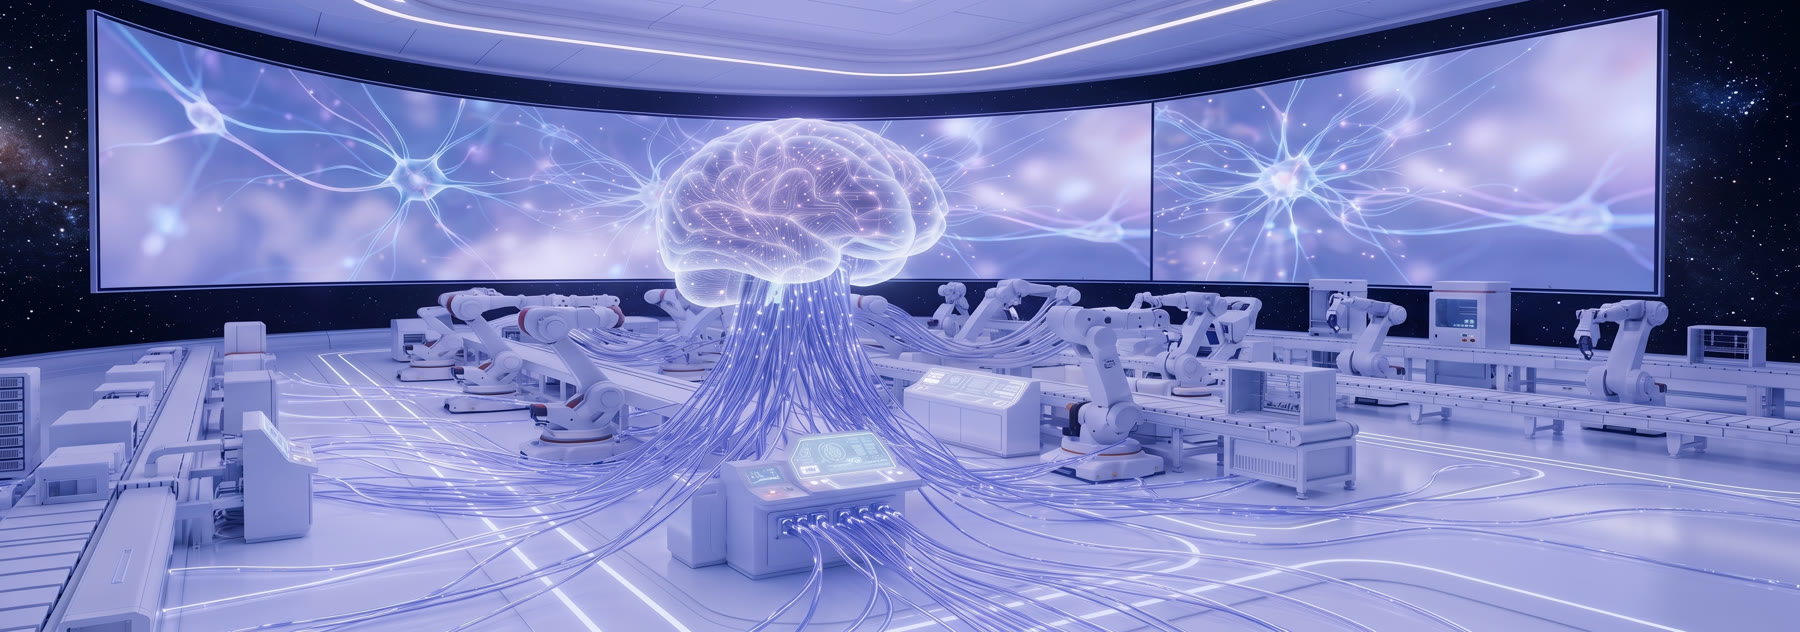
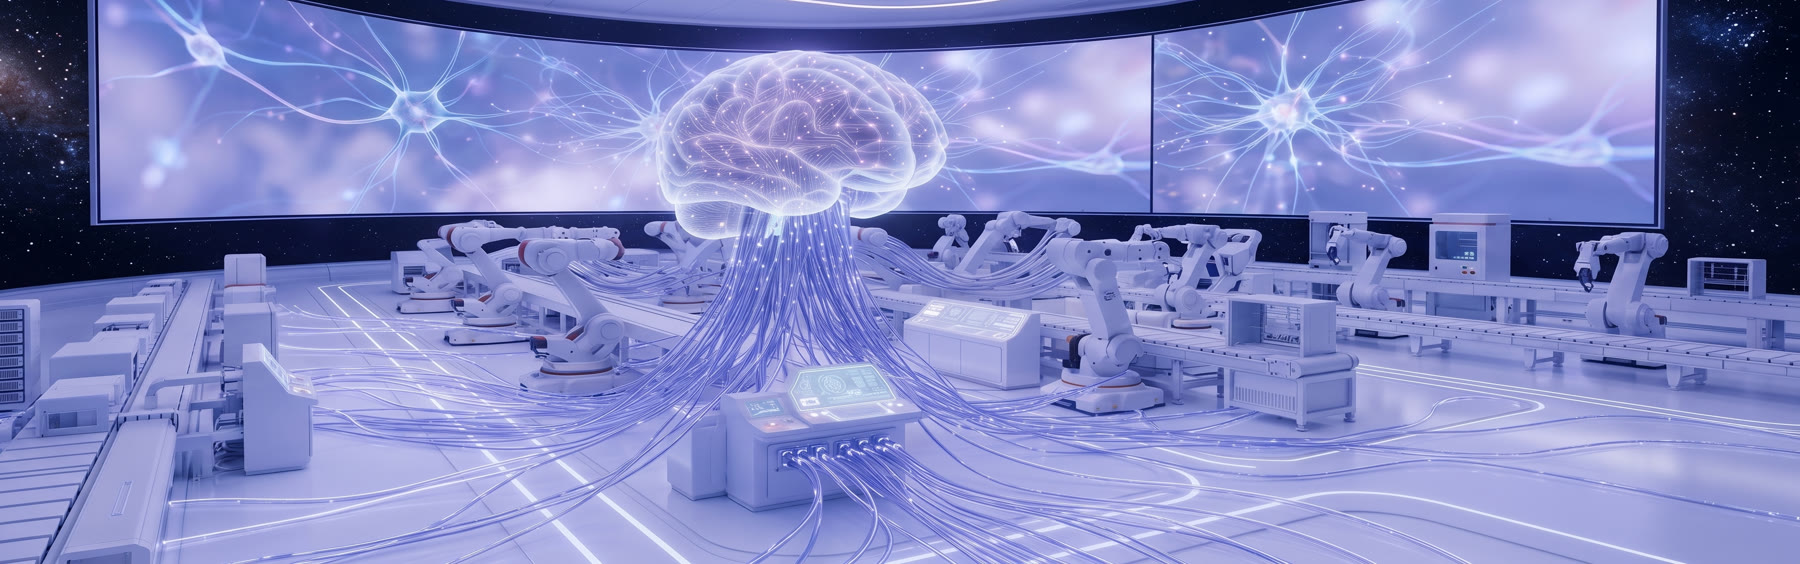
히어로 상단 추가 크롭, 태그라인 글자 확대

diff --git a/index.html b/index.html
@@ -65,7 +65,7 @@ section{padding:72px 0}
     url("img/hero.jpg") center/cover no-repeat,
     var(--grad-hero);
   color:#fff;padding:52px 0 60px;overflow:hidden;
-  min-height:calc(100vw / 2.55);display:flex;align-items:center;
+  min-height:calc(100vw / 2.85);display:flex;align-items:center;
 }
 .hero .wrap{width:100%}
 .hero-grid{display:grid;grid-template-columns:1.05fr 1fr;gap:60px;align-items:center}
@@ -76,7 +76,7 @@ section{padding:72px 0}
   letter-spacing:-0.01em;
 }
 .hero h2{font-size:56px;font-weight:800;line-height:1.2;letter-spacing:-0.03em}
-.hero-sub{margin-top:18px;font-size:19px;font-weight:800;color:rgba(255,255,255,.92);letter-spacing:-0.02em}
+.hero-sub{margin-top:18px;font-size:23px;font-weight:800;color:rgba(255,255,255,.92);letter-spacing:-0.02em}
 .hero-sub b{color:#DEC3FF}
 @media(max-width:768px){.hero h2{font-size:38px}.hero-sub{font-size:15px}}
 .hero h2 .hl{background:linear-gradient(90deg,#DEC3FF,#C084FC);-webkit-background-clip:text;background-clip:text;color:transparent}